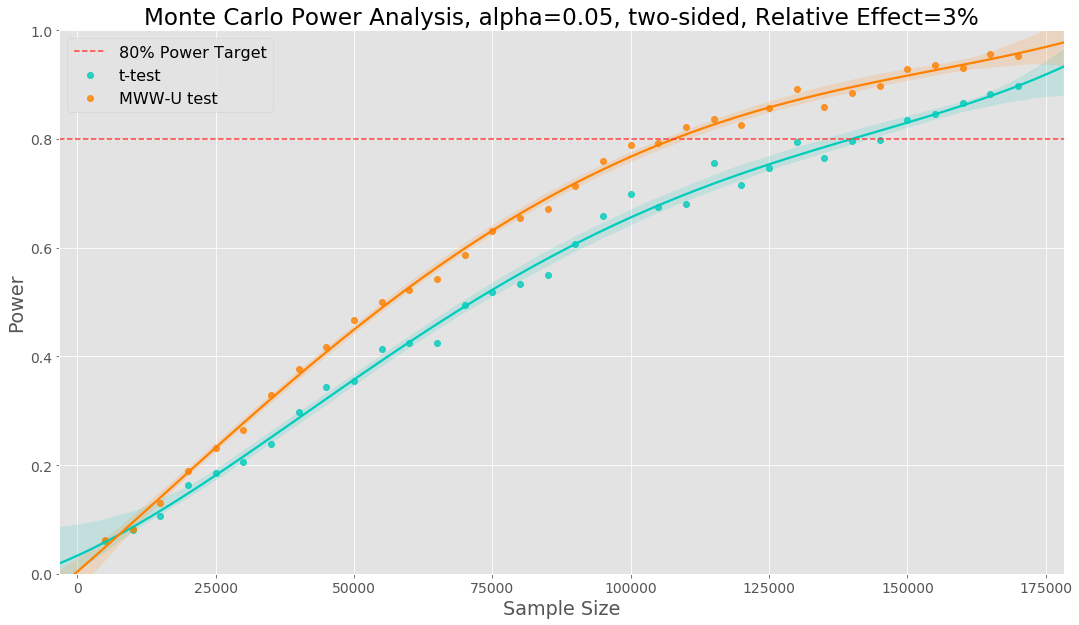
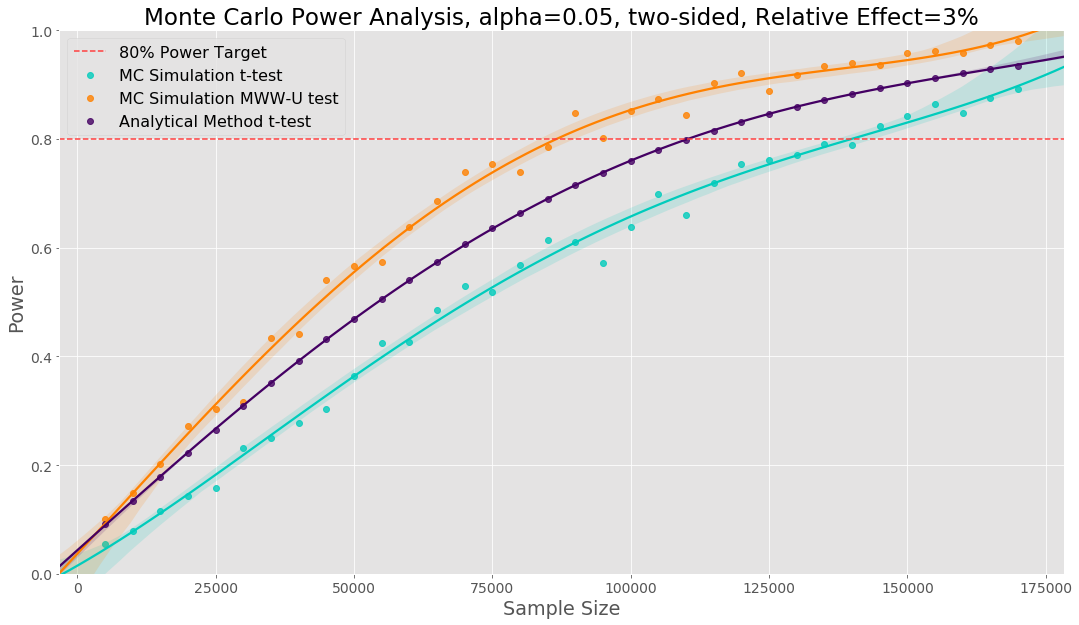
Correcting a bug in the significance level

diff --git a/_posts/2018-11-29-monte-carlo-power-analysis.md b/_posts/2018-11-29-monte-carlo-power-analysis.md
@@ -22,7 +22,7 @@ Obtaining an answer to the second question is called Power Analysis. Deciding th
 
 ## What is statistical power?
 
-We use frequentist hypothesis testing approaches to analyse the impact of any experiment. The statistical power of an experiment for a given alternative hypothesis is the probability we will get a statistically significant result (reject the null hypothesis) when the alternative is true for any one realisation of the experiment:
+When measuring the impact of an experiment we are deciding if the average outcome in the variant is significantly different from the average outcome in the control. We use frequentist hypothesis testing approaches to analyse the impact of any experiment. The statistical power of an experiment for a given alternative hypothesis is the probability we will get a statistically significant result (reject the null hypothesis) when the alternative is true:
 
 $$power = 1 - \beta = P(\textrm{Reject }H_0|H_1\textrm{ is true})$$
 
@@ -77,8 +77,6 @@ relative_effect = 1.03
 # effect is we are not sure what our minimum relative effect should be
 alternative = "two-sided" # Is the alternative one-sided or two-sided 
 
-significance_level = alpha / 2 if alternative == "two-sided" else alpha
-
 power_dist = np.empty((len(sample_sizes), 2))
 for i in range(0, len(sample_sizes)): 
     N = sample_sizes[i]
@@ -99,7 +97,7 @@ for i in range(0, len(sample_sizes)):
         test_result = ttest_ind(control_sample, variant_sample, 
                                 alternative=alternative, usevar='unequal') 
         # Test for significance
-        significance_results.append(test_result[1] <= significance_level) 
+        significance_results.append(test_result[1] <= alpha) 
     # The power is the number of times we have a significant result 
     # as we are assuming the alternative hypothesis is true
     power_dist[i,] = [N, np.mean(significance_results)] 
@@ -112,31 +110,31 @@ The Monte Carlo power analysis is shown visually below. Each data point represen
 ![Continuous Metric Power Curve](/images/posts/monte-carlo-power-analysis/image_2.png)
 </figure>
 
-We would call this our power curve. To make it easier to see where we reach our power target we fit a polynomial regression to the data points.
+We would call this our power curve. To make it easier to see where we reach our power target we fit a polynomial regression to the data points. In this example we see our simulation gives the same sample sizes as the analytical method.
 
-The power curve shows us that, based on our simulations, if there is a true effect size of 3%, we have 80% confidence that we will be able to detect it, when using a sample size of 16,000. A sample of 8,000 observations per variant as we are equally splitting between control and variant. We would then estimate how many days it will take to obtain the required sample size in each variant.
+The power curve shows us that, based on our simulations, if there is a true effect size of 3%, we have 80% confidence that we will be able to detect it, when using a sample size of 12,800. A sample of 6,400 observations per variant as we are equally splitting between control and variant. We would then estimate how many days it will take to obtain the required sample size in each variant.
 
 To control how long our simulation takes to run, we have two main levers:
 * **Number of simulations:** Increasing simulations increases the time for the simulation to run, but reduces the variance we see in the power curve.
 * **Step size between sample sizes:** Increasing this reduces the simulation time, but reduces our ability to granularly see when the power curve reaches our target power. In practical situations we will want to start from a much higher starting sample size in order to not waste simulation cycles.
 
-## Real data is not normal
+## Real data is not Gaussian
 
-In the example provided we sampled from a normal distribution. However real data is rarely perfectly normally distributed. The histogram below shows the distribution of an example real dataset - notice the left skew.
+In the example provided above we sampled from a normal distribution. However real data is rarely perfectly normally distributed. The histogram below shows the distribution of an example real dataset - notice the left skew.
 
-<figure class="small">
+<figure class="medium">
 ![Real data histogram](/images/posts/monte-carlo-power-analysis/image_3.png)
 </figure>
 
-This data will violate the normality assumption of the t-test - this reduces the power of the test. Applying an analytical power analysis method for a t-test would underestimate the sample size required to achieve power for this distribution of data. 
+This data will violate the normality assumption of the t-test - although there are asymptotic justifications that the t-test is still valid even when our data is non-normal. Even if the t-test is valid, it will not be optimally powerful, there will exist alternative tests of the null hypothesis which have greater power to detect alternative hypotheses.
 
-Instead, we can use the code presented before to perform a Monte Carlo power analysis. Here we are drawing our Monte Carlo samples from the empirical distribution of our previous data. Below, we show two power curves, one using the t-test and one using Mann–Whitney U test. Prior to starting our experiment we can say that based on the empirical distribution of our data, using a Mann-Whitney U test will require a smaller sample size (109k vs 139k) than a t-test to achieve 80% power.
+We can use the code presented before to perform a Monte Carlo power analysis. Here we are drawing our Monte Carlo samples from the empirical distribution of our previous data. Below, we show three power curves, one using Monte Carlo simulation with the t-test, one use the analytical power method for a t-test and one using Monte Carlo simulation with a [Mann–Whitney U test](https://en.wikipedia.org/wiki/Mann%E2%80%93Whitney_U_test). Prior to starting our experiment we can say that based on the empirical distribution of our data we need a sample size of 139k to use a t-test versus the 110k sample size the analytical method tells us. A Mann-Whitney U test will require a smaller sample size (88k) but changes the hypothesis to testing if there is a difference in the distribution between variant and control. We will need to decide prior to the experiment if this is the hypothesis we wish to test.
 
 <figure class="medium">
 ![t-test vs MWW-U test](/images/posts/monte-carlo-power-analysis/image_4.png)
 </figure>
 
-If the data had less skew we might find that a t-test requires a smaller sample size to achieve power. One of the strongest reasons we use Monte Carlo power analysis is that we can use the empirical distribution of our previous data to determine the right sample size and experimental analysis before running an experiment.
+One of the strongest reasons we use Monte Carlo power analysis is that we can use the empirical distribution of our previous data to determine the right sample size and experimental analysis before running an experiment.
 
 ## Power Analysis for Proportions
 
@@ -146,21 +144,19 @@ For proportion data, the method needs a slight adaptation. Below is an example f
 import numpy as np
 
 from scipy.stats import binom
-from statsmodels.stats.proportion import proportions_chisquare
+from statsmodels.stats.proportion import proportions_ztest
 
-# Sample data would be actual data measured over a fixed period of time prior to our
-# experiment. For illustration purposes here we have generated data from a
-# binomial distribution.
-sample_data = binom.rvs(1, 0.38, size=150000) 
+# Sample data would be actual data measured over a fixed period of time prior to our 
+# experiment. For illustration purposes here we have generated data from a normal 
+# distribution
+sample_data = binom.rvs(1, 0.31518, size=900000)
 
 base_conversion_rate = np.mean(sample_data)
-sample_sizes = list(range(2000, 150000 + 1, 2000)) # Sample sizes we will test over
+sample_sizes = list(range(2000, 200000 + 1, 2000)) # Sample sizes we will test over
 alpha = 0.05 # Our fixed alpha
 sims = 250 # The number of simulations we will run per iteration
 relative_effects = [1.01, 1.03, 1.05] # The list of relative effects we will test for
-alternative = "two-sided" # Is the alternative one-sided or two-sided 
-
-significance_level = alpha / 2 if alternative == "two-sided" else alpha
+alternative = "two-sided" # Is the alternative one-sider or two-sided 
 
 power_dist = np.empty((len(sample_sizes), len(relative_effects), 2))
 for i in range(0, len(sample_sizes)): 
@@ -171,21 +167,19 @@ for i in range(0, len(sample_sizes)):
         significance_results = []
         for k in range(0, sims):
 
-            # Randomly generate binomial data for variant and control with different
+            # # Randomly generate binomial data for variant and control with different
             # success probabilities 
             sample_per_variant = int(np.floor(N/2))
             control_sample = binom.rvs(1, base_conversion_rate, size=sample_per_variant)
             variant_sample = binom.rvs(1, base_conversion_rate * relative_effect, 
             	size=sample_per_variant)
-
-            test_result = proportions_chisquare(
-            	count=[sum(variant_sample), sum(control_sample)], 
-                nobs=[sample_per_variant, sample_per_variant])
-            # Test for significance
-            significance_results.append(test_result[1] <= significance_level) 
+            
+            test_result = proportions_ztest(count=[sum(variant_sample), sum(control_sample)], 
+            	imagenobs=[sample_per_variant, sample_per_variant], alternative=alternative)
+            significance_results.append(test_result[1] <= alpha) # Test for significance
         # The power is the number of times we have a significant result 
+        power_dist[i,j,] = [N, np.mean(significance_results)]
         # as we are assuming the alternative hypothesis is true
-        power_dist[i,j,] = [N, np.mean(significance_results)] 
 ```
 
 The main difference is that we have to sample data from binomial distributions with two different success probabilities. The visualisation below shows the results for the three different relative effects tested:
@@ -194,16 +188,7 @@ The main difference is that we have to sample data from binomial distributions w
 ![proportions with multiple relative effects](/images/posts/monte-carlo-power-analysis/image_5.png)
 </figure>
 
-
-We can compare the sample sizes required to reach power using an [analytical method](https://stat.ethz.ch/R-manual/R-devel/library/stats/html/power.prop.test.html) and the monte carlo power curve above:
-
-| Relative Effect | Analytical Method | Monte Carlo Simulation|
-| :-------------: |:-------------:| :-----:|
-| 1%      | 683K | 800K |
-| 3%      | 76K      |   92K |
-| 5% | 28K      |    37K |
-
-Generally we find Monte Carlo simulation gives more conservative estimates of the sample size required. 
+The sample sizes will be the same as we would obtain from an analytical method. If we only need a sample size for a single proportion, it will be less computation to use an analytical method. However in the next section we discuss multiple comparison, if we need a sample size in the case of a proportion metric with multiple comparisons the previous code example will be useful. 
 
 ## Power Analysis for Multiple Comparisons
 
@@ -250,8 +235,6 @@ relative_effect_1 = 1.035
 relative_effect_2 = 0.98
 alternative = "two-sided" # Is the alternative one-sided or two-sided 
 
-significance_level = alpha / 2 if alternative == "two-sided" else alpha
-
 power_dist = np.empty((len(sample_sizes), 2, 2))
 for i in range(0, len(sample_sizes)): 
     N = sample_sizes[i]
@@ -282,15 +265,15 @@ for i in range(0, len(sample_sizes)):
                                 alternative=alternative, usevar='unequal') 
         multi_comparision_result = multipletests([test_result_1[1], test_result_2[1]], 
         	alpha=alpha,  method='h') # Use Holm correction
-        metric_1_sig = multi_comparision_result[1][0] <= significance_level 
-        metric_2_sig = multi_comparision_result[1][1] <= significance_level
+        metric_1_sig = multi_comparision_result[1][0] <= alpha 
+        metric_2_sig = multi_comparision_result[1][1] <= alpha
         significance_both.append(metric_1_sig and metric_2_sig)
         significance_either.append(metric_1_sig or metric_2_sig)
     power_dist[i,0,] = [N, np.mean(significance_both)]
     power_dist[i,1,] = [N, np.mean(significance_either)]
 ```
 
-We show the two power curves in the plot below. Unsurprisingly, we need a much larger sample size to reach 80% power of both metrics being significant. The relative effect for metric 1 was 3.5% and the relative effect for metric 2 was -2%.
+We show the two power curves in the plot below. In this case we need a much larger sample size to reach 80% power of both metrics being significant. If there was perfect positive dependence between the two metrics, the sample size needed would be the same. Using empirical data any dependence between the metrics will be taking into account. The relative effect for metric 1 was 3.5% and the relative effect for metric 2 was -2%.
 
 <figure class="medium">
 ![multiple comparisions](/images/posts/monte-carlo-power-analysis/image_6.png)
@@ -325,7 +308,7 @@ Echidna is a collaborative effort across the Data Science team here at Deliveroo
 
 ## Summary
 
-Monte Carlo simulation provides us with an extremely flexible way to run power analysis. It has become our default way to perform any power analysis for any experiment. The downsides are additional coding and time taken to run the simulation. Encapsulating our simulation methodology into a common library has allowed us to minimise any additional coding and create highly optimised implementations.
+Monte Carlo simulation provides us with an extremely flexible way to run power analysis. The downsides are additional coding and time taken to run the simulation. Encapsulating our simulation methodology into a common library has allowed us to minimise any additional coding and create highly optimised implementations. Our default for very simple experimental designs is to still use analytical methods, but will switch to Monte Carlo simulation when required.
 
 If you are interested in experimentation, power analysis or anything else in this blog post - take a look at our [careers page](https://careers.deliveroo.co.uk/?country=united-kingdom&remote=&remote=true&team=any#filter-careers) for Data Science roles. We would love to hear from you!
 
